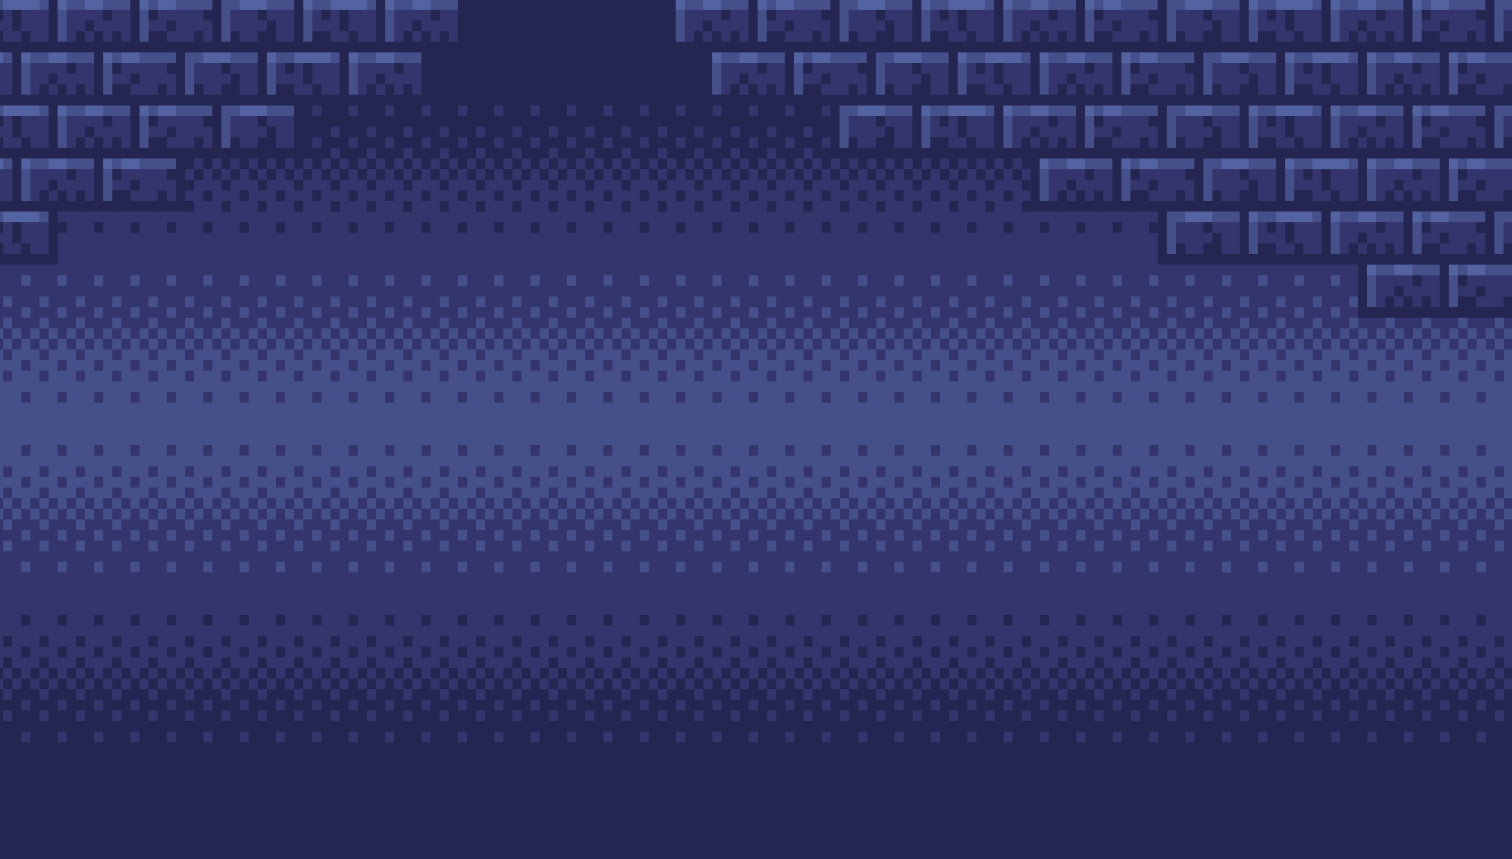
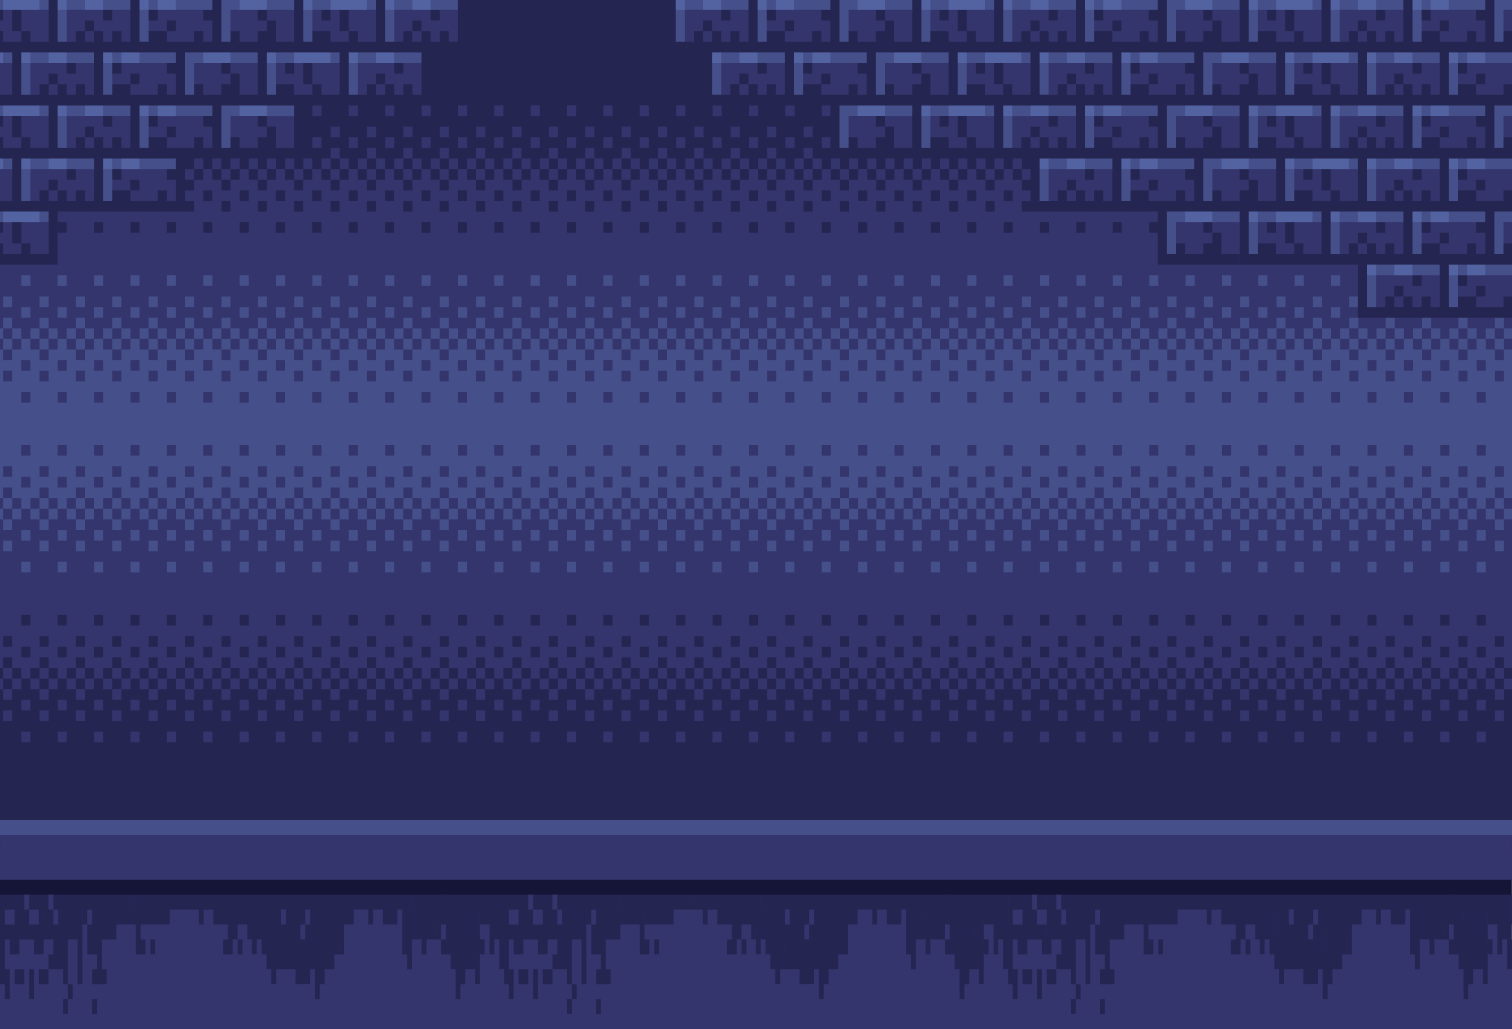
fix (history): fixing layouting background on the top of history

diff --git a/src/styles/style.css b/src/styles/style.css
@@ -414,11 +414,12 @@ header .nav-btn {
 .silat {
   position: absolute;
   width: 100%;
+  height: 100vh;
   top: 0;
   z-index: -10;
   /* background-color: #252551; */
-  background-image: url(../assets/img-background/silat-background.png);
-  background-repeat: repeat-y;
+  /* background-image: url(../assets/img-background/silat-background.png); */
+  /* background-repeat: repeat-y */
 }
 
 .silat h3 {
@@ -434,52 +435,50 @@ header .nav-btn {
 
 .silat-top {
   display: flex;
+  flex-direction: column;
   justify-content: center;
   align-items: center;
-}
-
-.silat-top .type-writer-wrapper {
   position: absolute;
-  left: 46%;
-  top: 38%;
+  top: 38.5%;
+  width: 100%;
+  /* height: 30rem; */
 }
 
 .type-writer-wrapper {
   background-image: url(/src/assets/pixel-speech-bubble.png);
   background-repeat: no-repeat;
-  background-size: contain;
+  background-size: cover;
   font-family: 'Silkscreen', cursive;
   text-align: center;
   position: absolute;
-  left: 47%;
-  top: 40%;
+  left: 50%;
+  top: 25%;
+  margin: auto;
   transform: translateX(-40%);
-  width: 31rem;
-  height: 10em;
+  width: 30rem;
+  height: 7.5em;
   padding: 20px;
 }
 
-/* .silat-top span {
-  font-family: 'Silkscreen', cursive;
-} */
-
 .silat-top_text-button {
   display: flex;
-  justify-content: center;
+  justify-content: space-between;
+  align-items: center;
+  gap: 4em;
+  width: 23em;
   margin-top: 17em;
 }
 
 .silat-top_text-button img {
-  width: 12em;
-  margin: auto 60px;
+  width: 8em;
 }
 
-.silat-top_text-button a {
+.silat-top_text-button > a {
   font-family: 'Press Start 2P', cursive;
   padding: 12px 25px;
   border: 1px solid black;
   border-radius: 8px;
-  margin: auto 60px;
+  /* margin: auto 60px; */
   text-decoration: none;
   color: #000;
   cursor: pointer;
@@ -487,17 +486,21 @@ header .nav-btn {
   animation-duration: 0.4s;
   animation-iteration-count: infinite;
   animation-direction: alternate-reverse;
+  border: 3px solid green;
 }
 
 .silat-background {
   position: absolute;
   width: 100%;
   height: 100vh;
-  overflow: hidden;
   display: flex;
   flex-direction: column;
-  /* justify-content: flex-end; */
   z-index: -2;
+}
+
+.silat-background > img {
+  width: 100%;
+  height: 100vh;
 }
 
 .silat #silat-bangunan {
@@ -510,15 +513,6 @@ header .nav-btn {
   display: flex;
   flex-direction: column;
   align-items: flex-end;
-}
-
-.silat #silat-batu {
-  width: 100%;
-  /* position: absolute; */
-  z-index: -2;
-  margin-top: 220px;
-  padding-top: 20px;
-  /* bottom: -175px; */
 }
 
 .silat-obor-container .obor {

diff --git a/src/pages/SilatPage.jsx b/src/pages/SilatPage.jsx
@@ -7,7 +7,7 @@ import obor2 from '../assets/img-background/obor-gif.gif';
 import obor3 from '../assets/img-background/obor-gif.gif';
 import obor4 from '../assets/img-background/obor-gif.gif';
 import Typewriter from '../components/TyperWriter';
-import AppHeader from "../components/AppHeader";
+import AppHeader from '../components/AppHeader';
 
 function SilatPage() {
   const [typewriter1Visible, setTypewriter1Visible] = useState(false);
@@ -48,19 +48,19 @@ function SilatPage() {
       <div className='silat'>
         <div className='silat-background'>
           <img src={bangunan} alt='bangunan gelap' id='silat-bangunan' />
-          <div className='silat-obor-container'>
+          {/* <div className='silat-obor-container'>
             <div className='silat-obor-top'>
-              <img src={obor1} alt='obor' className='obor' id='silat-obor-1'/>
-              <img src={obor2} alt='obor' className='obor' id='silat-obor-2'/>
+              <img src={obor1} alt='obor' className='obor' id='silat-obor-1' />
+              <img src={obor2} alt='obor' className='obor' id='silat-obor-2' />
             </div>
             <div className='silat-obor-bottom'>
-              <img src={obor3} alt='obor' className='obor' id='silat-obor-3'/>
-              <img src={obor4} alt='obor' className='obor' id='silat-obor-4'/>
+              <img src={obor3} alt='obor' className='obor' id='silat-obor-3' />
+              <img src={obor4} alt='obor' className='obor' id='silat-obor-4' />
             </div>
             <div className='silat-batu-container'>
               <img src={batu} alt='batu' id='silat-batu' />
             </div>
-          </div>
+          </div> */}
         </div>
         <h3>Sejarah Silat di Indonesia</h3>
         <div className='silat-top'>

diff --git a/src/App.js b/src/App.js
@@ -1,4 +1,4 @@
-import React from "react";
+import React from 'react';
 import {
   rootPath,
   homePath,
@@ -11,24 +11,23 @@ import {
   badmintonPath,
   weightLiftingPath,
   referencePath,
-} from "./routes";
-import { Route, Routes } from "react-router-dom";
-import Home from "./pages/Home";
+} from './routes';
+import { Route, Routes } from 'react-router-dom';
+import Home from './pages/Home';
 // import AppHeader from "./components/AppHeader";
-import Sports from "./pages/Sports";
-import SoccerPage from "./pages/SoccerPage";
-import SilatPage from "./pages/SilatPage";
-import ChessPage from "./pages/ChessPage";
-import ESportsPage from "./pages/ESportsPage";
-import AboutUsPage from "./pages/AboutUsPage";
-import BadmintonPage from "./pages/BadmintonPage";
-import WeightLiftingPage from "./pages/WeightLiftingPage";
-import ReferencePage from "./pages/ReferencePage";
+import Sports from './pages/Sports';
+import SoccerPage from './pages/SoccerPage';
+import SilatPage from './pages/SilatPage';
+import ChessPage from './pages/ChessPage';
+import ESportsPage from './pages/ESportsPage';
+import AboutUsPage from './pages/AboutUsPage';
+import BadmintonPage from './pages/BadmintonPage';
+import WeightLiftingPage from './pages/WeightLiftingPage';
+import ReferencePage from './pages/ReferencePage';
 
 function App() {
   return (
-    <div className="App">
-      {/* <AppHeader /> */}
+    <div className='App'>
       <main>
         <Routes>
           {[rootPath, homePath].map((path, index) => (

diff --git a/src/components/TyperWriter.jsx b/src/components/TyperWriter.jsx
@@ -1,5 +1,6 @@
 import React, { useEffect, useState } from 'react';
 import '../styles/style.css';
+import '../styles/responsive.css';
 
 const Typewriter = ({ text, delay }) => {
   const [currentText, setCurrentText] = useState('');

diff --git a/src/styles/responsive.css b/src/styles/responsive.css
@@ -39,5 +39,11 @@
     right: 25px;
   }
 
+  .type-writer-wrapper {
+    width: 22em;
+  }
 
+  .type-writer {
+    font-size: 12px;
+  }
 }
